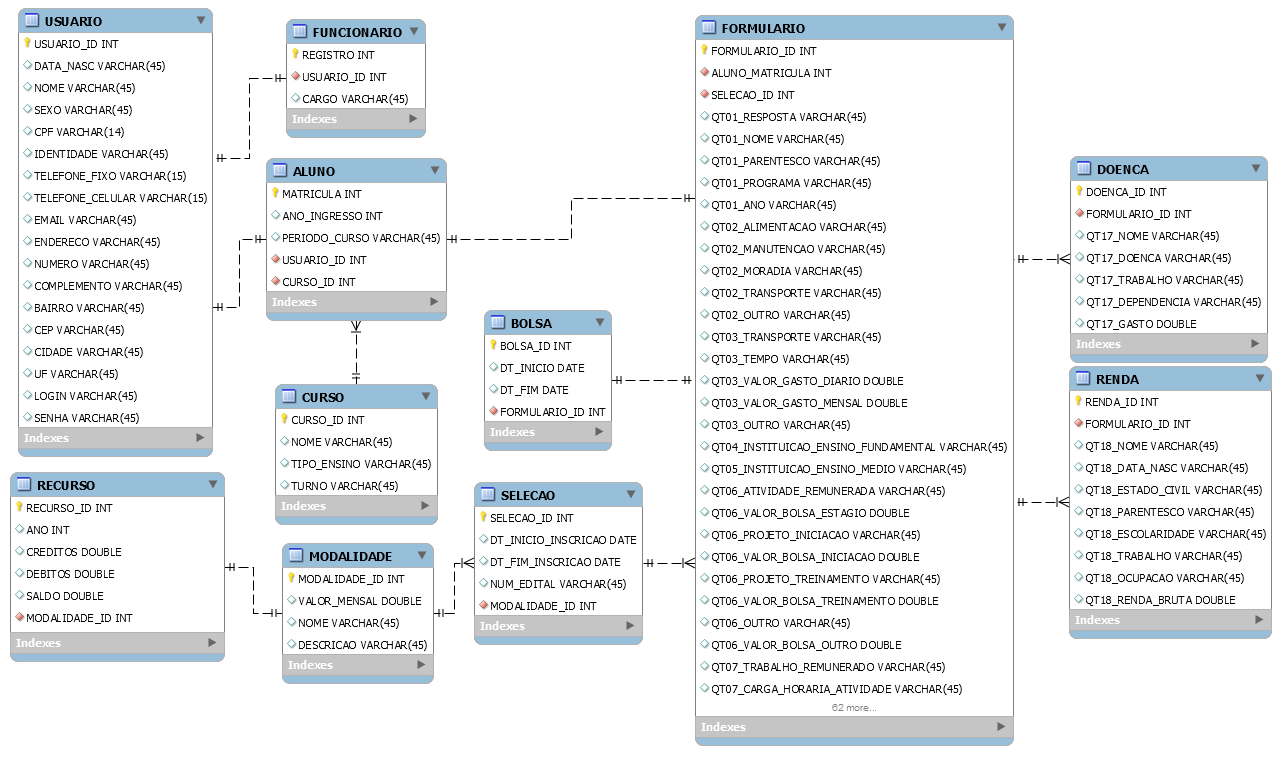
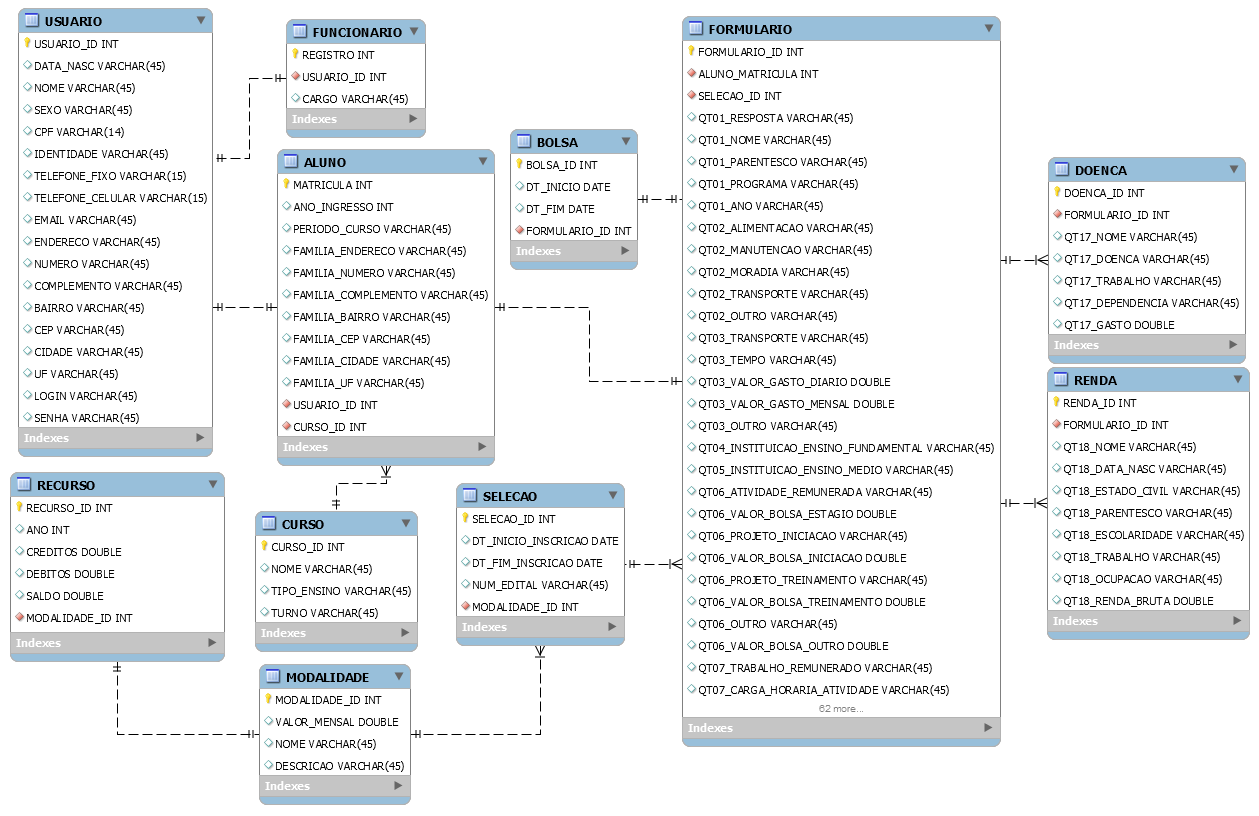
Adição de novas variáveis na tabela Aluno

Changed region(s): [[0.0, 0.0, 1.0, 1.0]]

diff --git a/SCAS/src/java/dao/AlunoDAO.java b/SCAS/src/java/dao/AlunoDAO.java
@@ -23,7 +23,14 @@ public class AlunoDAO {
                 Aluno aluno = new Aluno(
                         rs.getInt("MATRICULA"),
                         rs.getInt("ANO_INGRESSO"),
-                        rs.getString("PERIODO_CURSO"),null, null);
+                        rs.getString("PERIODO_CURSO"),
+                        rs.getString("FAMILIA_ENDERECO"),
+                        rs.getString("FAMILIA_NUMERO"),
+                        rs.getString("FAMILIA_COMPLEMENTO"),
+                        rs.getString("FAMILIA_BAIRRO"),
+                        rs.getString("FAMILIA_CEP"),
+                        rs.getString("FAMILIA_CIDADE"),
+                        rs.getString("FAMILIA_UF"), null, null);
                 aluno.setCodUsuario(rs.getInt("USUARIO_ID"));
                 aluno.setCodCurso(rs.getInt("CURSO_ID"));
                 Alunos.add(aluno);
@@ -49,7 +56,14 @@ public class AlunoDAO {
             aluno = new Aluno(
                     rs.getInt("MATRICULA"),
                     rs.getInt("ANO_INGRESSO"),
-                    rs.getString("PERIODO_CURSO"),null, null);
+                    rs.getString("PERIODO_CURSO"),
+                    rs.getString("FAMILIA_ENDERECO"),
+                    rs.getString("FAMILIA_NUMERO"),
+                    rs.getString("FAMILIA_COMPLEMENTO"),
+                    rs.getString("FAMILIA_BAIRRO"),
+                    rs.getString("FAMILIA_CEP"),
+                    rs.getString("FAMILIA_CIDADE"),
+                    rs.getString("FAMILIA_UF"), null, null);
                     aluno.setCodUsuario(rs.getInt("USUARIO_ID"));
                     aluno.setCodCurso(rs.getInt("CURSO_ID"));
         } catch (SQLException e) {
@@ -64,22 +78,30 @@ public class AlunoDAO {
         Connection conexao = null;
         try{
             conexao = BD.getConexao();
-            String sql = "insert into aluno (MATRICULA, ANO_INGRESSO, PERIODO_CURSO, USUARIO_ID, CURSO_ID) values (?,?,?,?,?)";
+            String sql = "insert into aluno (MATRICULA, ANO_INGRESSO, PERIODO_CURSO, FAMILIA_ENDERECO, FAMILIA_NUMERO, FAMILIA_COMPLEMENTO, "
+                    + "FAMILIA_BAIRRO, FAMILIA_CEP, FAMILIA_CIDADE, FAMILIA_UF, USUARIO_ID, CURSO_ID) values (?,?,?,?,?,?,?,?,?,?,?,?)";
             PreparedStatement comando = conexao.prepareStatement(sql);
             comando.setInt(1, aluno.getMatricula());
             comando.setInt(2, aluno.getAnoIngresso());
             comando.setString(3, aluno.getPeriodoCurso());
+            comando.setString(4, aluno.getFamilia_endereco());
+            comando.setString(5, aluno.getFamilia_numero());
+            comando.setString(6, aluno.getFamilia_complemento());
+            comando.setString(7, aluno.getFamilia_bairro());
+            comando.setString(8, aluno.getFamilia_cep());
+            comando.setString(9, aluno.getFamilia_cidade());
+            comando.setString(10, aluno.getFamilia_uf());
             
             if (aluno.getUsuario() == null){
-                comando.setNull(4, Types.NULL);
+                comando.setNull(11, Types.NULL);
             }else{
-                comando.setInt(4, aluno.getCodUsuario());
+                comando.setInt(11, aluno.getCodUsuario());
             }
             
             if (aluno.getCurso()== null){
-                comando.setNull(5, Types.NULL);
+                comando.setNull(12, Types.NULL);
             }else{
-                comando.setInt(5, aluno.getCodCurso());
+                comando.setInt(12, aluno.getCodCurso());
             } 
             
             comando.execute();
@@ -94,23 +116,30 @@ public class AlunoDAO {
         Connection conexao = null;
         try{
             conexao = BD.getConexao();
-            String sql = "update aluno set ANO_INGRESSO = ?, PERIODO_CURSO = ?, USUARIO_ID = ?, CURSO_ID = ? where MATRICULA = ?";
+            String sql = "update aluno set ANO_INGRESSO = ?, PERIODO_CURSO = ?, FAMILIA_ENDERECO = ?, FAMILIA_NUMERO = ?, FAMILIA_COMPLEMENTO = ?, "
+                    + "FAMILIA_BAIRRO = ?, FAMILIA_CEP = ?, FAMILIA_CIDADE = ?, FAMILIA_UF = ?, USUARIO_ID = ?, CURSO_ID = ? where MATRICULA = ?";
             PreparedStatement comando = conexao.prepareStatement(sql);
             comando.setInt(1, aluno.getAnoIngresso());
             comando.setString(2, aluno.getPeriodoCurso());
-            
+            comando.setString(3, aluno.getFamilia_endereco());
+            comando.setString(4, aluno.getFamilia_numero());
+            comando.setString(5, aluno.getFamilia_complemento());
+            comando.setString(6, aluno.getFamilia_bairro());
+            comando.setString(7, aluno.getFamilia_cep());
+            comando.setString(8, aluno.getFamilia_cidade());
+            comando.setString(9, aluno.getFamilia_uf());
             if (aluno.getUsuario() == null){
-                comando.setNull(3, Types.NULL);
+                comando.setNull(10, Types.NULL);
             }else{
-                comando.setInt(3, aluno.getCodUsuario());
+                comando.setInt(10, aluno.getCodUsuario());
             }
             
             if (aluno.getCurso()== null){
-                comando.setNull(4, Types.NULL);
+                comando.setNull(11, Types.NULL);
             }else{
-                comando.setInt(4, aluno.getCodCurso());
+                comando.setInt(11, aluno.getCodCurso());
             } 
-            comando.setInt(5, aluno.getMatricula());
+            comando.setInt(12, aluno.getMatricula());
             comando.execute();
             comando.close();
             conexao.close();

diff --git a/SCAS/src/java/controller/ManterAlunoController.java b/SCAS/src/java/controller/ManterAlunoController.java
@@ -132,6 +132,13 @@ public class ManterAlunoController extends HttpServlet {
         int matricula = Integer.parseInt(request.getParameter("txtMatricula"));
         int anoIngresso = Integer.parseInt(request.getParameter("txtAnoIngresso"));
         String periodoCurso = request.getParameter("txtPeriodoCurso");
+        String familia_endereco = request.getParameter("txtFamiliaEndereco");
+        String familia_numero = request.getParameter("txtFamiliaNumero");
+        String familia_complemento = request.getParameter("txtFamiliaComplemento");
+        String familia_bairro = request.getParameter("txtFamiliaBairro");
+        String familia_cep = request.getParameter("txtFamiliaCep");
+        String familia_cidade = request.getParameter("txtFamiliaCidade");
+        String familia_uf = request.getParameter("txtFamiliaUF");
         int codCurso = Integer.parseInt(request.getParameter("optCurso"));
         int codUsuario = Integer.parseInt(request.getParameter("optUsuario"));
         try{
@@ -143,7 +150,7 @@ public class ManterAlunoController extends HttpServlet {
             if(codCurso != 0){
                 curso = Curso.obterCurso(codCurso);
             }
-            Aluno aluno = new Aluno(matricula, anoIngresso, periodoCurso, curso, usuario);
+            Aluno aluno = new Aluno(matricula, anoIngresso, periodoCurso, familia_endereco, familia_numero, familia_complemento, familia_bairro, familia_cep, familia_cidade, familia_uf, curso, usuario);
             aluno.setCodUsuario(codUsuario);
             aluno.setCodCurso(codCurso);
             aluno.gravar();
@@ -202,6 +209,13 @@ public class ManterAlunoController extends HttpServlet {
         int matricula = Integer.parseInt(request.getParameter("txtMatricula"));
         int anoIngresso = Integer.parseInt(request.getParameter("txtAnoIngresso"));
         String periodoCurso = request.getParameter("txtPeriodoCurso");
+        String familia_endereco = request.getParameter("txtFamiliaEndereco");
+        String familia_numero = request.getParameter("txtFamiliaNumero");
+        String familia_complemento = request.getParameter("txtFamiliaComplemento");
+        String familia_bairro = request.getParameter("txtFamiliaBairro");
+        String familia_cep = request.getParameter("txtFamiliaCep");
+        String familia_cidade = request.getParameter("txtFamiliaCidade");
+        String familia_uf = request.getParameter("txtFamiliaUF");
         int codCurso = Integer.parseInt(request.getParameter("optCurso"));
         int codUsuario = Integer.parseInt(request.getParameter("optUsuario"));
         try{
@@ -213,7 +227,7 @@ public class ManterAlunoController extends HttpServlet {
             if(codCurso != 0){
                 curso = Curso.obterCurso(codCurso);
             }
-            Aluno aluno = new Aluno(matricula, anoIngresso, periodoCurso, curso, usuario);
+            Aluno aluno = new Aluno(matricula, anoIngresso, periodoCurso, familia_endereco, familia_numero, familia_complemento, familia_bairro, familia_cep, familia_cidade, familia_uf, curso, usuario);
             aluno.setCodUsuario(codUsuario);
             aluno.setCodCurso(codCurso);
             aluno.alterar();
@@ -234,6 +248,13 @@ public class ManterAlunoController extends HttpServlet {
         int matricula = Integer.parseInt(request.getParameter("txtMatricula"));
         int anoIngresso = Integer.parseInt(request.getParameter("txtAnoIngresso"));
         String periodoCurso = request.getParameter("txtPeriodoCurso");
+        String familia_endereco = request.getParameter("txtFamiliaEndereco");
+        String familia_numero = request.getParameter("txtFamiliaNumero");
+        String familia_complemento = request.getParameter("txtFamiliaComplemento");
+        String familia_bairro = request.getParameter("txtFamiliaBairro");
+        String familia_cep = request.getParameter("txtFamiliaCep");
+        String familia_cidade = request.getParameter("txtFamiliaCidade");
+        String familia_uf = request.getParameter("txtFamiliaUF");
         int codCurso = Integer.parseInt(request.getParameter("optCurso"));
         int codUsuario = Integer.parseInt(request.getParameter("optUsuario"));
         try{
@@ -245,7 +266,7 @@ public class ManterAlunoController extends HttpServlet {
             if(codCurso != 0){
                 curso = Curso.obterCurso(codCurso);
             }
-            Aluno aluno = new Aluno(matricula, anoIngresso, periodoCurso, curso, usuario);
+            Aluno aluno = new Aluno(matricula, anoIngresso, periodoCurso, familia_endereco, familia_numero, familia_complemento, familia_bairro, familia_cep, familia_cidade, familia_uf, curso, usuario);
             aluno.setCodUsuario(codUsuario);
             aluno.setCodCurso(codCurso);
             aluno.excluir();

diff --git a/SCAS/src/java/modelo/Aluno.java b/SCAS/src/java/modelo/Aluno.java
@@ -10,16 +10,30 @@ public class Aluno {
     private int matricula;
     private int anoIngresso;
     private String periodoCurso;
+    private String familia_endereco;
+    private String familia_numero;
+    private String familia_complemento;
+    private String familia_bairro;
+    private String familia_cep;
+    private String familia_cidade;
+    private String familia_uf;
     private Curso curso;
     private Usuario usuario;
     
     private int codCurso;
     private int codUsuario;
 
-    public Aluno(int matricula, int anoIngresso, String periodoCurso, Curso curso, Usuario usuario) {
+    public Aluno(int matricula, int anoIngresso, String periodoCurso, String familia_endereco, String familia_numero, String familia_complemento, String familia_bairro, String familia_cep, String familia_cidade, String familia_uf, Curso curso, Usuario usuario) {
         this.matricula = matricula;
         this.anoIngresso = anoIngresso;
         this.periodoCurso = periodoCurso;
+        this.familia_endereco = familia_endereco;
+        this.familia_numero = familia_numero;
+        this.familia_complemento = familia_complemento;
+        this.familia_bairro = familia_bairro;
+        this.familia_cep = familia_cep;
+        this.familia_cidade = familia_cidade;
+        this.familia_uf = familia_uf;
         this.curso = curso;
         this.usuario = usuario;
     }
@@ -39,7 +53,7 @@ public class Aluno {
     public void setMatricula(int matricula) {
         this.matricula = matricula;
     }
-    
+
     public int getAnoIngresso() {
         return anoIngresso;
     }
@@ -47,7 +61,7 @@ public class Aluno {
     public void setAnoIngresso(int anoIngresso) {
         this.anoIngresso = anoIngresso;
     }
-    
+
     public String getPeriodoCurso() {
         return periodoCurso;
     }
@@ -55,7 +69,63 @@ public class Aluno {
     public void setPeriodoCurso(String periodoCurso) {
         this.periodoCurso = periodoCurso;
     }
-    
+
+    public String getFamilia_endereco() {
+        return familia_endereco;
+    }
+
+    public void setFamilia_endereco(String familia_endereco) {
+        this.familia_endereco = familia_endereco;
+    }
+
+    public String getFamilia_numero() {
+        return familia_numero;
+    }
+
+    public void setFamilia_numero(String familia_numero) {
+        this.familia_numero = familia_numero;
+    }
+
+    public String getFamilia_complemento() {
+        return familia_complemento;
+    }
+
+    public void setFamilia_complemento(String familia_complemento) {
+        this.familia_complemento = familia_complemento;
+    }
+
+    public String getFamilia_bairro() {
+        return familia_bairro;
+    }
+
+    public void setFamilia_bairro(String familia_bairro) {
+        this.familia_bairro = familia_bairro;
+    }
+
+    public String getFamilia_cep() {
+        return familia_cep;
+    }
+
+    public void setFamilia_cep(String familia_cep) {
+        this.familia_cep = familia_cep;
+    }
+
+    public String getFamilia_cidade() {
+        return familia_cidade;
+    }
+
+    public void setFamilia_cidade(String familia_cidade) {
+        this.familia_cidade = familia_cidade;
+    }
+
+    public String getFamilia_uf() {
+        return familia_uf;
+    }
+
+    public void setFamilia_uf(String familia_uf) {
+        this.familia_uf = familia_uf;
+    }
+
     public int getCodCurso() {
         return codCurso;
     }
@@ -71,7 +141,7 @@ public class Aluno {
     public void setCodUsuario(int codUsuario) {
         this.codUsuario = codUsuario;
     }
-
+    
     public Curso getCurso() throws ClassNotFoundException{
         if ((codCurso != 0) && (curso == null)){
             curso = CursoDAO.obterCurso(codCurso);

diff --git a/SCAS/src/java/controller/ManterDoencaController.java b/SCAS/src/java/controller/ManterDoencaController.java
@@ -127,7 +127,7 @@ public class ManterDoencaController extends HttpServlet {
     }
 
     private void confirmarIncluir(HttpServletRequest request, HttpServletResponse response) throws ServletException {
-        int codDoenca = Integer.parseInt(request.getParameter("txtCodDoenca"));
+        int codDoenca = Integer.parseInt(request.getParameter("optFormulario") + request.getParameter("txtCodDoenca"));
         int codFormulario = Integer.parseInt(request.getParameter("optFormulario"));
         String qt17_Nome = request.getParameter("txt_qt17_Nome");
         String qt17_Doenca = request.getParameter("txt_qt17_Doenca");

diff --git a/SCAS/src/java/controller/ManterRendaController.java b/SCAS/src/java/controller/ManterRendaController.java
@@ -127,7 +127,7 @@ public class ManterRendaController extends HttpServlet {
     }
 
     private void confirmarIncluir(HttpServletRequest request, HttpServletResponse response) throws ServletException {
-        int codRenda = Integer.parseInt(request.getParameter("txtCodRenda"));
+        int codRenda = Integer.parseInt(request.getParameter("optFormulario") + request.getParameter("txtCodRenda"));
         int codFormulario = Integer.parseInt(request.getParameter("optFormulario"));
         String qt18_Nome = request.getParameter("txt_qt18_Nome");
         String qt18_DataNasc = request.getParameter("txt_qt18_DataNasc");
